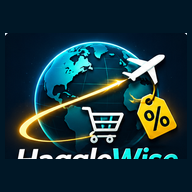
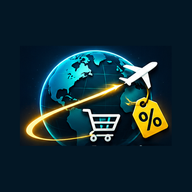
Add files via upload

Changed region(s): [[0.0625, 0.1875, 0.9375, 0.8438]]

diff --git a/index.html b/index.html
@@ -1,6 +1,6 @@
-<!doctype html><html lang="en"><head><meta charset="utf-8"><meta name="viewport" content="width=device-width,initial-scale=1,viewport-fit=cover"><meta name="theme-color" content="#123b61"><title>HaggleWise | Know your price. Make your deal.</title><link rel="manifest" href="./manifest.webmanifest"><link rel="icon" href="./icon-192.png"><style>
+<!doctype html><html lang="en"><head><meta charset="utf-8"><meta name="viewport" content="width=device-width,initial-scale=1,viewport-fit=cover"><meta name="theme-color" content="#123b61"><title>HaggleWise | Know your price. Make your deal.</title><link rel="manifest" href="./manifest.webmanifest?v=1-0-8"><link rel="icon" href="./icon-192.png?v=1-0-8"><style>
 :root{font-family:system-ui,-apple-system,Segoe UI,sans-serif;color:#17324d;background:#f2f7fc}*{box-sizing:border-box}body{margin:0}.app{max-width:560px;margin:auto;padding:16px 15px 36px}header{background:linear-gradient(125deg,#123b61,#087b8a);color:white;border-radius:22px;padding:20px;box-shadow:0 8px 22px #123b6122}.head{display:flex;justify-content:space-between;align-items:center;gap:10px}h1{font-size:1.35rem;margin:0 0 4px}header p{margin:0;opacity:.9;font-size:.85rem}button,input{font:inherit}button{cursor:pointer;touch-action:manipulation}#share{background:#ffffff2b;color:white;border:1px solid #ffffff55;border-radius:12px;padding:10px 13px;font-weight:700;white-space:nowrap}.panel{background:white;border-radius:20px;margin-top:15px;padding:17px;box-shadow:0 4px 16px #1b46600c}.intro{font-size:.84rem;color:#567187;line-height:1.5;margin:0 0 12px}.currency-tabs{display:grid;grid-template-columns:repeat(3,minmax(0,1fr));gap:7px}.tab{border:2px solid transparent;background:#edf4f9;border-radius:14px;padding:9px 3px 10px;min-width:0;text-align:center}.tab.active{background:#dff7f0;border-color:#0d8d7d}.tab .role{display:block;font-size:.7rem;font-weight:800;line-height:1.3;min-height:28px}.tab .code{display:block;font-size:.93rem;font-weight:800;margin-top:3px}.choose{display:block;width:100%;border:0;background:#ffffffb5;border-radius:8px;padding:5px 2px;margin-top:6px;color:#176b75;font-size:.72rem;font-weight:700}.entry{background:#f1fbf8;border:1px solid #b4dcd2;border-radius:15px;padding:13px;margin-top:13px}.entry .eyebrow{font-size:.78rem;font-weight:800}.entry .big{font-size:2.1rem;font-weight:800;margin:7px 0;overflow-wrap:anywhere;font-variant-numeric:tabular-nums}.entry .hint{font-size:.77rem;color:#58758a}.result{display:grid;grid-template-columns:1fr 1fr;gap:9px;margin-top:11px}.result>div{border:1px solid #dce9f1;border-radius:12px;padding:10px;min-width:0}.result .name{font-size:.74rem;font-weight:750;color:#496a7d}.result .value{font-size:1.15rem;font-weight:800;overflow-wrap:anywhere;margin-top:5px}.keypad{display:grid;grid-template-columns:repeat(3,1fr);gap:8px;margin-top:13px}.keypad button{background:#eaf2f8;color:#17324d;border:0;border-radius:12px;padding:12px;min-height:48px;font-size:1.35rem;font-weight:750}.keypad .clear{background:#fff3d8;font-size:.94rem}.keypad .delete{background:#ffece7;font-size:.94rem}.small{font-size:.8rem;color:#567187;line-height:1.5}.actions{display:flex;gap:8px;flex-wrap:wrap}.actions button{border:0;border-radius:11px;background:#e5f4f2;color:#125a57;padding:11px 13px;font-weight:750}.actions button:disabled{opacity:.6}.rates summary{font-weight:750;cursor:pointer;padding:3px 0}.status{font-size:.81rem;color:#496a7d;line-height:1.5;margin:10px 0}.warn{background:#fff5df;color:#85551d;padding:12px;border-radius:11px;font-size:.8rem;line-height:1.45}.foot{text-align:center;font-size:.77rem;color:#60798b;margin:19px 0}.rate-row{display:grid;grid-template-columns:1fr 1fr;gap:10px;align-items:center;margin:10px 0}.rate-row input{width:100%;border:1px solid #a8c0d0;border-radius:10px;padding:10px}.rate-row label{font-size:.86rem;font-weight:650}.tiny{font-size:.75rem;color:#647f8e;line-height:1.45}.source a{color:#087b8a}dialog{width:min(94vw,430px);max-height:82vh;border:0;border-radius:18px;padding:16px;box-shadow:0 14px 45px #122c4655}dialog::backdrop{background:#0c253b99}.picker-head{display:flex;justify-content:space-between;align-items:center}.picker-head button{border:0;background:#eaf2f8;border-radius:8px;padding:8px 12px}#currencySearch{width:100%;border:1px solid #abc7d5;border-radius:10px;padding:12px;margin:12px 0;font-size:1rem}.currency-list{max-height:55vh;overflow:auto}.currency-list button{width:100%;text-align:left;padding:12px 8px;background:white;border:0;border-bottom:1px solid #e1eaf0;font-size:.94rem}.currency-list button:focus{background:#e5f4f2}
-.brand{display:flex;align-items:center;gap:10px;min-width:0}.brand-icon{width:64px;height:64px;object-fit:cover;border-radius:14px;flex-shrink:0}.brand h1{font-size:1.5rem;letter-spacing:-.03em}.brand p{font-size:.74rem;line-height:1.3}.head{align-items:center}#share{padding:10px 9px;font-size:.82rem}@media(max-width:370px){.brand-icon{width:52px;height:52px}.brand h1{font-size:1.25rem}.brand p{font-size:.68rem}} </style></head><body><main class="app"><header><div class="head"><div><div class="brand"><img class="brand-icon" src="./icon-192.png" alt="HaggleWise globe, plane, shopping trolley and price tag logo"><div><h1>HaggleWise</h1><p>Know your price. Make your deal.</p></div></div></div><button id="share" type="button">↗ Share</button></div></header>
+.brand{display:flex;align-items:center;gap:10px;min-width:0}.brand-icon{width:64px;height:64px;object-fit:contain;border-radius:14px;flex-shrink:0}.brand h1{font-size:1.5rem;letter-spacing:-.03em}.brand p{font-size:.74rem;line-height:1.3}.head{align-items:center}#share{padding:10px 9px;font-size:.82rem}@media(max-width:370px){.brand-icon{width:52px;height:52px}.brand h1{font-size:1.25rem}.brand p{font-size:.68rem}} </style></head><body><main class="app"><header><div class="head"><div><div class="brand"><img class="brand-icon" src="./icon-192.png?v=1-0-8" alt="HaggleWise globe, plane, shopping trolley and price tag logo"><div><h1>HaggleWise</h1><p>Know your price. Make your deal.</p></div></div></div><button id="share" type="button">↗ Share</button></div></header>
 <section class="panel">
 <p class="intro">Choose what you want to enter below: the shop price, what you'll pay, or your budget at home. The other amounts update automatically.</p>
 <div class="currency-tabs" id="tabs"></div>
@@ -11,7 +11,7 @@
 </section>
 <dialog id="picker"><div class="picker-head"><strong>Choose a currency</strong><button id="closePicker" type="button">Close ✕</button></div><input id="currencySearch" placeholder="Search country, currency or code" autocomplete="off" aria-label="Search currencies"><div id="currencyList" class="currency-list"></div></dialog>
 <section class="panel rates"><details><summary>⚙ Exchange rates and settings</summary><p class="small">Reference market rates refresh when you open the app online. You can also refresh manually or enter your own rates. Manual rates may be replaced on the next successful automatic refresh.</p><div id="manualRates"></div><div class="actions"><button type="button" id="saveRates">Save manual rates</button><button type="button" id="liveRates">🔄 Refresh live rates</button></div><p id="liveStatus" class="status" role="status" aria-live="polite"></p><p id="rateStatus" class="status" role="status"></p></details><p id="lastRefresh" class="status">🕒 Last successful refresh: not yet recorded</p><p id="marketDate" class="status">📅 Market date: not yet recorded</p>
-<p class="status source">📡 Rate source: <a href="https://frankfurter.dev/" target="_blank" rel="noopener noreferrer">Frankfurter</a> (reference exchange rates). Manual changes are labelled separately.</p><p class="warn">📌 Market rates are estimates, not guaranteed shop quotes. Shops, cash exchanges and cards may use different rates or charge fees.</p></section><p class="foot">Works offline with your saved rates. No account needed.</p></main>
+<p class="status source">📡 Rate source: <a href="https://frankfurter.dev/" target="_blank" rel="noopener noreferrer">Frankfurter</a> (reference exchange rates). Manual changes are labelled separately.</p><p class="warn">📌 Market rates are estimates, not guaranteed shop quotes. Shops, cash exchanges and cards may use different rates or charge fees.</p></section><p class="foot">Works offline with your saved rates. No account needed.</p><p class="foot" style="font-size:11px;opacity:.65;margin-top:6px">HaggleWise · v1.0.8</p></main>
 <script>
 (()=>{'use strict';const $=id=>document.getElementById(id);const KEY='holidayV6',RATEKEY='holidayRatesV5',TIMEKEY='turkeyLastLiveRefreshV4';const fallback={GBP:1,EUR:1.197,TRY:66.5};const popular=['EUR','TRY','GBP','USD','AED','AUD','BRL','CAD','CHF','CNY','CZK','DKK','EGP','HKD','HUF','IDR','ILS','INR','ISK','JPY','KRW','MAD','MXN','MYR','NOK','NZD','PHP','PLN','RON','SAR','SEK','SGD','THB','TND','ZAR'];const flags={EUR:'🇪🇺',TRY:'🇹🇷',GBP:'🇬🇧',USD:'🇺🇸',AED:'🇦🇪',AUD:'🇦🇺',BRL:'🇧🇷',CAD:'🇨🇦',CHF:'🇨🇭',CNY:'🇨🇳',CZK:'🇨🇿',DKK:'🇩🇰',EGP:'🇪🇬',HKD:'🇭🇰',HUF:'🇭🇺',IDR:'🇮🇩',ILS:'🇮🇱',INR:'🇮🇳',ISK:'🇮🇸',JPY:'🇯🇵',KRW:'🇰🇷',MAD:'🇲🇦',MXN:'🇲🇽',MYR:'🇲🇾',NOK:'🇳🇴',NZD:'🇳🇿',PHP:'🇵🇭',PLN:'🇵🇱',RON:'🇷🇴',SAR:'🇸🇦',SEK:'🇸🇪',SGD:'🇸🇬',THB:'🇹🇭',TND:'🇹🇳',ZAR:'🇿🇦'};
 function load(k){try{return JSON.parse(localStorage.getItem(k))}catch(e){return null}}function store(k,v){try{localStorage.setItem(k,JSON.stringify(v))}catch(e){}}let rates={...fallback,...(load(RATEKEY)||{})};rates.GBP=1;let state={codes:['EUR','TRY','GBP'],active:0,shop:'',pay:'',edited:false,homeDraft:''};const old=load('holidayV5');if(old?.codes?.length===3){state.codes=old.codes;state.shop=old.values?.[0]||'';state.pay=old.mode==='haggle'&&old.haggleEdited?old.values?.[1]||'':'';state.edited=old.mode==='haggle'&&!!old.haggleEdited}state={...state,...(load(KEY)||{})};if(!Array.isArray(state.codes)||state.codes.length!==3)state.codes=['EUR','TRY','GBP'];if(![0,1,2].includes(state.active))state.active=0;let rateMode='live';function save(){store(KEY,state)}function rate(c){return Number(rates[c])>0?Number(rates[c]):null}function conv(n,a,b){const x=rate(a),y=rate(b);return x&&y?n/x*y:null}function num(s){return Number(s)||0}function fmt(n){return n==null?'—':new Intl.NumberFormat(undefined,{maximumFractionDigits:2,minimumFractionDigits:2}).format(n)}function str(n){return n==null?'':String(Math.round((n+Number.EPSILON)*100)/100)}function sym(c){try{return new Intl.NumberFormat('en',{style:'currency',currency:c,currencyDisplay:'narrowSymbol'}).formatToParts(0).find(x=>x.type==='currency')?.value||c}catch(e){return c}}function cname(c){try{return new Intl.DisplayNames(['en'],{type:'currency'}).of(c)||c}catch(e){return c}}function flag(c){return flags[c]||'🌐'}function amount(i){if(i===0)return state.shop;if(i===1)return state.edited?state.pay:str(conv(num(state.shop),state.codes[0],state.codes[1]));return str(conv(num(amount(1)),state.codes[1],state.codes[2]))}function draw(){const labels=['SHOP PRICE','YOU PAY','COST AT HOME'];$('tabs').innerHTML=state.codes.map((c,i)=>'<div class="tab '+(i===state.active?'active':'')+'"><button type="button" data-tab="'+i+'" style="width:100%;border:0;background:none;color:inherit;padding:0"><span class="role">'+labels[i]+'</span><span class="code">'+flag(c)+' '+c+'</span></button><button type="button" class="choose" data-choose="'+i+'">Change ▾</button></div>').join('');document.querySelectorAll('[data-tab]').forEach(el=>el.onclick=()=>{state.active=Number(el.dataset.tab);state.homeDraft=state.active===2?amount(2):'';save();draw()});document.querySelectorAll('[data-choose]').forEach(el=>el.onclick=()=>openPicker(Number(el.dataset.choose)));const i=state.active;$('entryLabel').textContent=labels[i]+' · '+state.codes[i];$('entryAmount').textContent=sym(state.codes[i])+' '+(amount(i)||'0');$('entryHint').textContent=i===0?'Advertised shop price':i===1?(state.edited?'Your negotiated payment':'Estimated payment. Enter a different amount to haggle.'):'Equivalent home cost. Enter a home budget to work backwards.';$('results').innerHTML=[0,1,2].filter(j=>j!==i).map(j=>'<div><div class="name">'+labels[j]+' · '+flag(state.codes[j])+' '+state.codes[j]+'</div><div class="value">'+sym(state.codes[j])+' '+fmt(num(amount(j)))+'</div></div>').join('');save()}

diff --git a/sw.js b/sw.js
@@ -1,1 +1,1 @@
-const CACHE='hagglewise-v7';const ASSETS=['./','./index.html','./manifest.webmanifest','./icon-192.png','./icon-512.png'];self.addEventListener('install',event=>{event.waitUntil(caches.open(CACHE).then(cache=>cache.addAll(ASSETS)).then(()=>self.skipWaiting()))});self.addEventListener('activate',event=>{event.waitUntil(Promise.all([caches.keys().then(keys=>Promise.all(keys.filter(key=>key!==CACHE).map(key=>caches.delete(key)))),self.clients.claim()]))});self.addEventListener('fetch',event=>{const req=event.request;if(req.method!=='GET'||new URL(req.url).origin!==self.location.origin)return;if(req.mode==='navigate'){event.respondWith(fetch(req).then(res=>{if(res.ok){const copy=res.clone();caches.open(CACHE).then(cache=>cache.put('./index.html',copy))}return res}).catch(()=>caches.match('./index.html')));return}event.respondWith(caches.match(req).then(cached=>cached||fetch(req)))});
+const CACHE='hagglewise-v1-0-8';const ASSETS=['./','./index.html','./manifest.webmanifest','./icon-192.png','./icon-512.png'];self.addEventListener('install',event=>{event.waitUntil(caches.open(CACHE).then(cache=>cache.addAll(ASSETS)).then(()=>self.skipWaiting()))});self.addEventListener('activate',event=>{event.waitUntil(Promise.all([caches.keys().then(keys=>Promise.all(keys.filter(key=>key!==CACHE).map(key=>caches.delete(key)))),self.clients.claim()]))});self.addEventListener('fetch',event=>{const req=event.request;if(req.method!=='GET'||new URL(req.url).origin!==self.location.origin)return;if(req.mode==='navigate'){event.respondWith(fetch(req).then(res=>{if(res.ok){const copy=res.clone();caches.open(CACHE).then(cache=>cache.put('./index.html',copy))}return res}).catch(()=>caches.match('./index.html')));return}event.respondWith(caches.match(req).then(cached=>cached||fetch(req)))});
